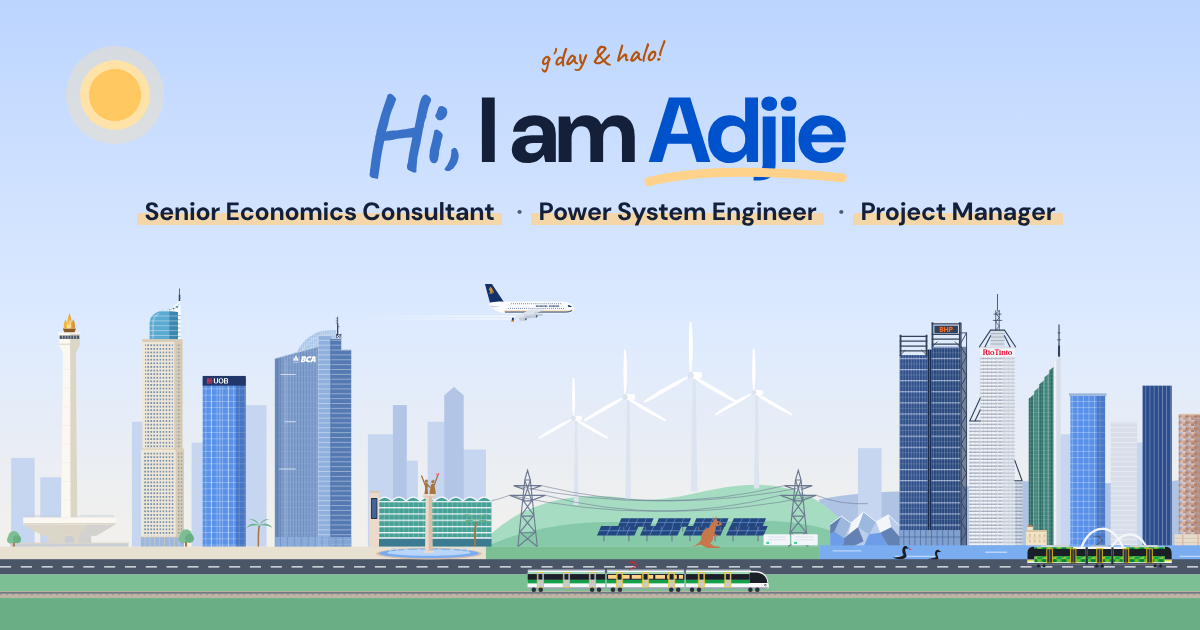
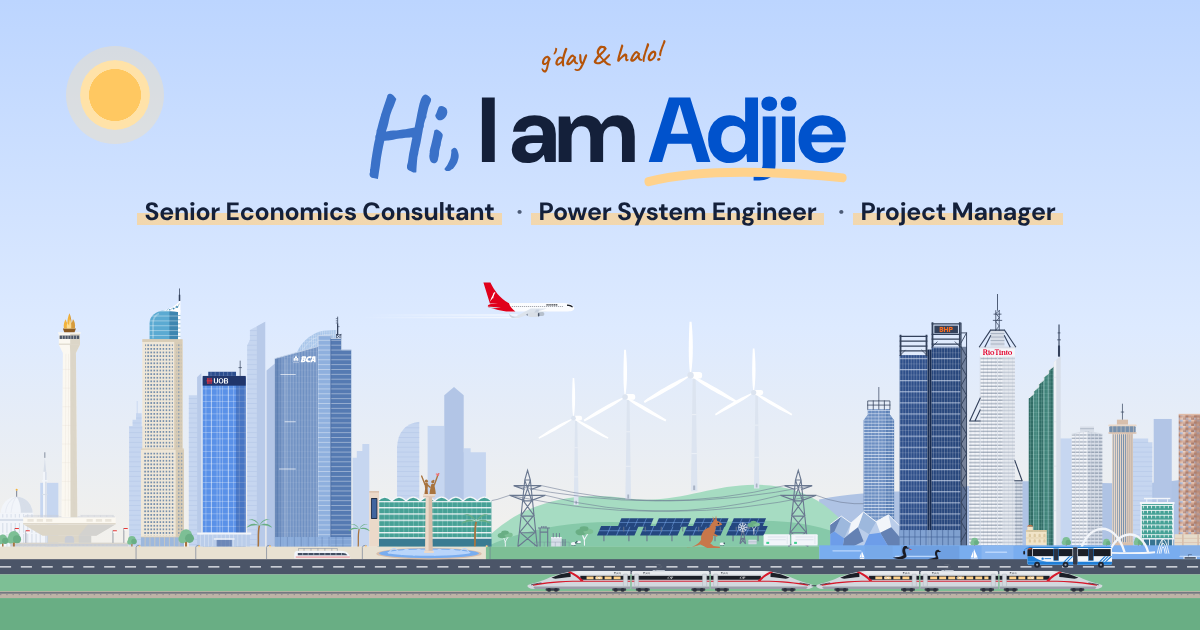
Draw the real skylines in more detail
Jakarta gains the Istiqlal Mosque beside Monas, Thamrin Nine and its
neighbours in the haze, flags and reliefs on Monas, UOB Plaza's podium and
roof plant, street lamps and the Bundaran HI bus halt. Perth swaps its
three generic boxes for QV1, Allendale Square, St Martins Tower and
Council House, and adds Matagarup Bridge, Spanda, a ferry, yachts,
foreshore trees and tower reflections on the Swan. The farm between them
gets a substation, a windmill, gums and sheep. Social image regenerated.

Claude-Session: https://claude.ai/code/session_01QpNtMhFshDgpuuidwhsMRa

diff --git a/index.html b/index.html
@@ -888,7 +888,7 @@
     </main>
 
     <div class="scene-wrap" id="sceneWrap">
-      <svg class="scene" viewBox="0 110 1920 490" preserveAspectRatio="xMidYMax slice" role="img" aria-label="Flat illustration of Jakarta, with Monas, Wisma 46, Menara BCA and the Selamat Datang monument, then wind and solar farms, then Perth, with the BHP Tower at Brookfield Place, Central Park (the Rio Tinto tower), the Palace Tower, the Bell Tower, Elizabeth Quay Bridge and Optus Stadium. A Singapore Airlines A380 flies overhead while a Transperth C-series train and a Transperth bus pass below, and a kangaroo jumps at the power line, gets a jolt and hops on, a little singed.">
+      <svg class="scene" viewBox="0 110 1920 490" preserveAspectRatio="xMidYMax slice" role="img" aria-label="Flat illustration of Jakarta, with the Istiqlal Mosque, Monas, Wisma 46, UOB Plaza, Menara BCA, Hotel Indonesia and the Selamat Datang monument, then wind and solar farms, then Perth, with QV1, the BHP Tower at Brookfield Place, Central Park (the Rio Tinto tower), the Palace Tower, Allendale Square, St Martins Tower, Council House, the Ritz-Carlton, the Bell Tower, Elizabeth Quay Bridge, Matagarup Bridge and Optus Stadium. A Singapore Airlines A380 flies overhead while a Transperth C-series train and a Transperth bus pass below, and a kangaroo jumps at the power line, gets a jolt and hops on, a little singed.">
         <defs>
           <pattern id="mullV" width="6" height="8" patternUnits="userSpaceOnUse"><rect x="0" y="0" width="1" height="8" class="f-mull"/></pattern>
           <pattern id="mullG" width="8" height="9" patternUnits="userSpaceOnUse"><rect x="0" y="0" width="1" height="9" class="f-mull"/><rect x="0" y="0" width="8" height="1" class="f-mull"/></pattern>
@@ -898,6 +898,7 @@
           <linearGradient id="contrail" x1="0" x2="1"><stop offset="0" stop-color="#fff" stop-opacity="0"/><stop offset="1" stop-color="#fff" stop-opacity=".9"/></linearGradient>
           <g id="turbine">
             <path class="f-blade2" d="M-4.5 0 L4.5 0 L2 -160 L-2 -160 Z"/>
+            <path d="M-3.7 -52 H3.7 M-2.9 -106 H2.9" stroke="var(--blade)" stroke-width=".7"/><rect x="-1.4" y="-8" width="2.8" height="6.4" rx=".5" fill="var(--pylon)" opacity=".45"/>
             <rect class="f-blade" x="-5" y="-165" width="16" height="9" rx="4"/>
             <g transform="translate(-5 -160.5)">
               <g class="spin">
@@ -915,6 +916,14 @@
           <g id="panel"><path class="s-pylon" d="M10 0 V-10 M46 0 V-14"/><path class="f-panel" d="M0 -8 L54 -8 L60 -22 L6 -22 Z"/><path d="M14 -8 L20 -22 M28 -8 L34 -22 M42 -8 L48 -22 M3 -15 L57 -15" stroke="var(--panel-2)" stroke-width=".8" fill="none"/></g>
           <g id="tree"><rect x="-1.5" y="-10" width="3" height="10" class="f-bronze"/><circle cy="-16" r="9" class="f-grass"/><circle cx="-5" cy="-11" r="6" class="f-grass"/><circle cx="5" cy="-12" r="6.5" class="f-grass2"/></g>
           <g id="palm"><path d="M0 0 C 1 -12 -1 -24 2 -36" stroke="var(--bronze)" stroke-width="2.6" fill="none"/><path class="f-grass2" d="M2 -36 c -10 -6 -18 -2 -22 4 c 8 -5 15 -5 22 -4z M2 -36 c 10 -6 18 -2 22 4 c -8 -5 -15 -5 -22 -4z M2 -36 c -4 -10 -12 -12 -18 -10 c 8 0 13 4 18 10z M2 -36 c 4 -10 12 -12 18 -10 c -8 0 -13 4 -18 10z"/></g>
+          <pattern id="ribV" width="3" height="6" patternUnits="userSpaceOnUse"><rect x="1" width="1.2" height="6" fill="var(--w46-win)"/></pattern>
+          <pattern id="chT" width="6" height="7" patternUnits="userSpaceOnUse"><path d="M0 .7 H6 M3 .7 V4.6" stroke="var(--halo)" stroke-width="1.1" fill="none"/></pattern>
+          <pattern id="qvG" width="5" height="4.5" patternUnits="userSpaceOnUse"><rect width="5" height="1.1" fill="var(--bca-band)"/><rect width=".6" height="4.5" class="f-mull"/></pattern>
+          <pattern id="hazeG" width="5" height="7" patternUnits="userSpaceOnUse"><rect width="5" height=".8" fill="var(--far-2)"/></pattern>
+          <g id="lamp"><path d="M0 0 V-17 q0 -3 4.4 -3" fill="none" stroke="var(--pylon)" stroke-width=".9"/><rect x="3.4" y="-20.6" width="3" height="1.2" rx=".6" fill="var(--pylon)"/><circle class="lit" cx="4.9" cy="-18.6" r="1.5" fill="var(--lit)"/></g>
+          <g id="gum"><path d="M0 0 C .6 -7 -.6 -11 -3.4 -16 M0 -8 C 1.4 -12 3.4 -14 5 -17" fill="none" stroke="var(--white-b)" stroke-width="1.5" stroke-linecap="round"/><ellipse cx="-5" cy="-19" rx="8" ry="4.6" class="f-grass2"/><ellipse cx="5.6" cy="-20" rx="7" ry="4" class="f-grass"/><ellipse cx="-.6" cy="-24" rx="6.4" ry="3.6" class="f-grass2"/></g>
+          <g id="sheep"><ellipse cx="0" cy="-3.4" rx="3.6" ry="2.3" class="f-white"/><circle cx="3.6" cy="-4.4" r="1.2" fill="var(--steel)"/><path d="M-2 -1.4 V0 M-.4 -1.4 V0 M1.4 -1.4 V0 M2.6 -1.4 V0" stroke="var(--steel)" stroke-width=".6"/></g>
+          <g id="yacht"><path d="M0 0 h11 l-1.8 2.4 h-7.4 z" class="f-white"/><path d="M5 -.6 V-14 L10.4 -1.4 Z M4.2 -1.4 V-11.6 L.4 -1.4 Z" fill="var(--halo)"/></g>
           <pattern id="bcaV" width="3.2" height="4.6" patternUnits="userSpaceOnUse"><rect width=".7" height="4.6" class="f-mull"/><rect width="3.2" height=".45" class="f-mull"/></pattern>
           <pattern id="bhpG" width="4" height="16" patternUnits="userSpaceOnUse"><rect width=".8" height="16" class="f-mull"/><rect y="0" width="4" height="1.7" fill="var(--bhp-band)"/><rect y="8" width="4" height=".5" class="f-mull"/></pattern>
           <pattern id="palG" width="4" height="5.5" patternUnits="userSpaceOnUse"><rect width=".8" height="5.5" fill="var(--pal-line)"/><rect width="4" height=".5" fill="var(--pal-line)"/></pattern>
@@ -948,14 +957,26 @@
 
         <!-- Far: haze of both cities and the Darling Range -->
         <path class="f-range" d="M1180 480 L1180 412 C 1260 396 1330 404 1400 392 C 1500 376 1600 398 1700 384 C 1790 372 1860 388 1920 380 L1920 480 Z"/>
+        <!-- Jakarta's haze, west to east: Sahid Sudirman Center, Gama Tower, then Thamrin Nine (the Autograph Tower,
+             the tallest in the country, and the Luminary beside it), Plaza Indonesia, Menara Astra and Wisma Nusantara.
+             Perth's: the east end of the Terrace. -->
         <g class="f-far">
-          <rect x="16" y="352" width="34" height="128"/><rect x="58" y="380" width="30" height="100"/><rect x="190" y="300" width="30" height="180"/><rect x="276" y="330" width="26" height="150"/>
-          <rect x="350" y="276" width="34" height="204"/><rect x="530" y="318" width="36" height="162"/><rect x="574" y="356" width="28" height="124"/><rect x="616" y="300" width="34" height="180"/><rect x="660" y="340" width="40" height="140"/>
-          <rect x="1236" y="338" width="34" height="142"/><rect x="1424" y="302" width="30" height="178"/><rect x="1520" y="318" width="36" height="162"/><rect x="1630" y="330" width="32" height="150"/><rect x="1750" y="350" width="40" height="130"/><rect x="1836" y="362" width="30" height="118"/>
+          <rect x="58" y="388" width="26" height="92"/>
+          <path d="M186 480 V306 h5 v-9 h5 v-9 h8 v18 h6 V480 Z M197 288 v-18 h1.2 v18 Z"/>
+          <path d="M272 480 V262 H284 V236 L290 230 V480 Z"/>
+          <path d="M356 480 V190 L360 182 V168 L382 156 V480 Z"/>
+          <path d="M508 480 V352 h6 v-10 h8 v-10 h10 V480 Z"/>
+          <path d="M572 480 V336 Q 574 304 604 300 V480 Z"/>
+          <rect x="616" y="306" width="24" height="174"/>
+          <path d="M660 480 V344 h8 v-6 h10 v6 h22 V480 Z"/>
+          <rect x="1424" y="302" width="30" height="178"/><rect x="1526" y="324" width="18" height="156"/>
+          <path d="M1626 480 V330 h6 v-6 h22 v6 h6 V480 Z"/><rect x="1750" y="350" width="40" height="130"/><rect x="1836" y="362" width="30" height="118"/>
         </g>
         <g class="f-far2">
-          <rect x="566" y="276" width="20" height="204"/><path d="M640 480 V262 l14 -12 l14 12 V480 Z"/><rect x="1556" y="290" width="24" height="190"/><rect x="1662" y="300" width="26" height="180"/>
+          <path d="M384 480 V226 L396 216 V480 Z"/><path d="M640 480 V262 l14 -12 l14 12 V480 Z"/><rect x="1662" y="296" width="26" height="184"/>
+          <path d="M370 480 V162.4 L382 156 V480 Z M284 480 V236 L290 230 V480 Z" opacity=".7"/>
         </g>
+        <path fill="url(#hazeG)" d="M186 480 V306 h5 v-9 h5 v-9 h8 v18 h6 V480 Z M272 480 V262 H284 V480 Z M356 480 V190 L360 182 V168 L370 162.4 V480 Z M572 480 V336 Q 574 304 604 300 V480 Z M1626 480 V330 h6 v-6 h22 v6 h6 V480 Z"/>
 
         <!-- Far away, so it passes behind the towers: the Singapore Airlines A380-800, Jakarta to Perth.
              Click (or tap) it for a Qantas A350-1000, then a B-2 Spirit, seen from below and hard to spot. -->
@@ -1038,9 +1059,42 @@
           <rect x="1100" y="462" width="38" height="16" rx="1.5" class="f-white"/><rect x="1140" y="462" width="38" height="16" rx="1.5" class="f-white"/>
           <path d="M1106 466 h26 M1106 470 h26 M1146 466 h26 M1146 470 h26" stroke="var(--grey-b)" stroke-width="1.2"/>
           <rect x="1104" y="473" width="4" height="3" fill="#3ECF8E"/><rect x="1144" y="473" width="4" height="3" fill="#3ECF8E"/>
+          <path d="M1134 464 v12 M1174 464 v12 M1100 478.6 h78" stroke="var(--grey-b)" stroke-width="1"/>
+        </g>
+        <!-- The substation under the first tower: a transformer with its bushings and cooling fins, a gantry, a fence -->
+        <g>
+          <path class="s-pylon" stroke-width="1.1" d="M778 480 V453 M789 480 V453 M775 453 H792 M778 459 H789 M780.5 453 v-3 M783.5 453 v-3 M786.5 453 v-3"/>
+          <rect x="794" y="466" width="15" height="14" class="f-grey"/><rect x="794" y="466" width="15" height="2" class="f-white"/>
+          <path d="M797 466 v-5 M801.5 466 v-5 M806 466 v-5" stroke="var(--pylon)" stroke-width="1.3" stroke-linecap="round"/>
+          <path d="M810.4 469 v10 M812.4 469 v10 M814.4 469 v10" stroke="var(--pylon)" stroke-width="1"/>
+          <path d="M770 480 V473.4 H820 V480 M776 473.4 V480 M784 473.4 V480 M792 473.4 V480 M800 473.4 V480 M808 473.4 V480 M814 473.4 V480" stroke="var(--pylon)" stroke-width=".5" fill="none" opacity=".8"/>
+        </g>
+        <!-- Station country: a windmill on its lattice tower, a tank, a few gums and sheep -->
+        <g>
+          <path class="s-pylon" stroke-width=".8" d="M1066 476 L1070 452 L1074 476 M1067.4 468 H1072.6 M1068.6 460 H1071.4 M1066 476 L1072.6 468 M1074 476 L1067.4 468"/>
+          <path d="M1070 452 h8 l3 -2.4 v4.8 z" fill="var(--pylon)"/>
+          <g transform="translate(1070 452)"><g class="spin" style="--spd:3.4s"><path d="M0 -6.4 V6.4 M-6.4 0 H6.4 M-4.5 -4.5 L4.5 4.5 M-4.5 4.5 L4.5 -4.5" stroke="var(--blade-2)" stroke-width="1.5"/><circle r="6.4" fill="none" stroke="var(--blade-2)" stroke-width=".7"/><circle r="1.3" fill="var(--pylon)"/></g></g>
+          <rect x="1078" y="470" width="12" height="6.6" rx="1" class="f-grey"/><path d="M1078 472.4 h12 M1078 474.4 h12" stroke="var(--pylon)" stroke-width=".5" opacity=".6"/>
+          <use href="#gum" transform="translate(842 478)"/><use href="#gum" transform="translate(1086 462) scale(.7)"/><use href="#gum" transform="translate(728 480) scale(.85)"/>
+          <use href="#sheep" transform="translate(826 479)"/><use href="#sheep" transform="translate(834 476) scale(-.8 .8)"/><use href="#sheep" transform="translate(1040 479) scale(.9)"/>
         </g>
 
         <!-- ═══ Jakarta ═══ -->
+        <!-- Istiqlal, north-east of Monas: the great dome on its drum, the prayer hall's long colonnade, the one minaret -->
+        <g>
+          <rect x="-12" y="440" width="76" height="40" class="f-white"/>
+          <rect x="-12" y="440" width="76" height="3" class="f-grey"/>
+          <path d="M-8 446 V480 M-2 446 V480 M4 446 V480 M10 446 V480 M16 446 V480 M22 446 V480 M28 446 V480 M34 446 V480 M40 446 V480 M46 446 V480 M52 446 V480 M58 446 V480" stroke="var(--grey-b)" stroke-width="1.6"/>
+          <rect x="-12" y="460" width="76" height="1.6" class="f-white"/>
+          <rect x="0" y="431" width="48" height="9" class="f-white"/><path d="M4 433 v5 M10 433 v5 M16 433 v5 M22 433 v5 M28 433 v5 M34 433 v5 M40 433 v5 M46 433 v5" stroke="var(--grey-b)" stroke-width="1.4"/>
+          <path class="f-white" d="M1 431 A 23 23 0 0 1 47 431 Z"/>
+          <path class="f-grey" d="M24 408 A 23 23 0 0 1 47 431 H30 C 30 422 28 414 24 408 Z"/>
+          <path d="M8 431 C 9 420 14 412 24 408 M16 431 C 17 420 20 412 24 408 M38 431 C 37.4 420 32 412 24 408" fill="none" stroke="var(--grey-b)" stroke-width=".6"/>
+          <path d="M24 408 V399" stroke="var(--steel)" stroke-width=".9"/><circle cx="24" cy="398" r="1.5" fill="var(--flame)"/>
+          <path class="f-white" d="M62 480 V372 h5.2 V480 Z"/><path class="f-grey" d="M65 480 V372 h2.2 V480 Z"/>
+          <rect x="60.6" y="384" width="8" height="2.2" class="f-white"/><rect x="60.6" y="404" width="8" height="1.6" class="f-grey"/>
+          <path class="f-grey" d="M62.6 372 L64.6 352 L66.6 372 Z"/><path d="M64.6 352 V344" stroke="var(--steel)" stroke-width=".8"/>
+        </g>
         <!-- Monas: the cawan (the lesung, a wide shallow cup) on its base, the slim marble shaft (the alu),
              the flared collar under the observation deck, the bronze holder and the gold-leaf flame -->
         <g transform="translate(100 480) scale(1.12) translate(-100 -480)">
@@ -1060,6 +1114,11 @@
           <path class="f-mon" d="M89.8 442.2 L110.2 442.2 L108.4 231 L91.6 231 Z"/>
           <path class="f-mon2" d="M101.4 442.2 L110.2 442.2 L108.4 231 L101 231 Z"/>
           <path d="M90 420 H110 M90.2 396 H109.8 M90.4 372 H109.6 M90.6 348 H109.4 M90.8 324 H109.2 M91 300 H109 M91.2 276 H108.8 M91.4 252 H108.6" stroke="var(--mon-2)" stroke-width=".5" opacity=".55"/>
+          <path d="M94.6 441 L95.4 232 M98.6 441 L98.9 232 M105.6 441 L105 232" stroke="var(--mon-2)" stroke-width=".45" opacity=".6" fill="none"/>
+          <path d="M46 444.4 h8 v3.6 h-8z M58 444.4 h8 v3.6 h-8z M70 444.4 h8 v3.6 h-8z M122 444.4 h8 v3.6 h-8z M134 444.4 h8 v3.6 h-8z M146 444.4 h8 v3.6 h-8z" fill="var(--mon-2)" opacity=".55"/>
+          <path d="M30 475 V456 M44 475 V459 M156 475 V459 M170 475 V456" stroke="var(--steel)" stroke-width=".6"/>
+          <path d="M30 456 h5 v1.5 h-5z M44 459 h5 v1.5 h-5z M156 459 h5 v1.5 h-5z M170 456 h5 v1.5 h-5z" fill="#E63939"/>
+          <path d="M30 457.5 h5 v1.5 h-5z M44 460.5 h5 v1.5 h-5z M156 460.5 h5 v1.5 h-5z M170 457.5 h5 v1.5 h-5z" fill="#fff"/>
           <path class="f-mon" d="M91.6 231 L86.4 220.2 H113.6 L108.4 231 Z"/>
           <path class="f-mon2" d="M101 231 L100.6 220.2 H113.6 L108.4 231 Z"/>
           <rect x="86.4" y="205.6" width="27.2" height="14.6" class="f-mon"/>
@@ -1112,6 +1171,10 @@
           <rect x="292" y="234" width="62" height="14" fill="#21366B"/>
           <use href="#lgUob" x="297" y="236.6" width="32" height="9" fill="#fff"/>
           <rect x="292" y="252" width="62" height="226" fill="url(#lights)" class="lit"/>
+          <rect x="300" y="228" width="40" height="6" fill="var(--g-dark)"/><path d="M304 228 v6 M310 228 v6 M316 228 v6 M322 228 v6 M328 228 v6 M334 228 v6" stroke="var(--mullion)" stroke-width=".8"/>
+          <path d="M346 234 V212 M343.6 222 h4.8" stroke="var(--steel)" stroke-width="1"/><circle class="blink" cx="346" cy="211" r="1.4" fill="#FF5A5A"/>
+          <rect x="286" y="462" width="74" height="18" class="f-pale2"/><rect x="286" y="462" width="74" height="18" fill="url(#mullV)"/>
+          <rect x="284" y="459.6" width="78" height="3" class="f-white"/><rect x="312" y="470" width="22" height="10" fill="var(--g-dark)" opacity=".55"/><rect x="308" y="468" width="30" height="1.8" class="f-white"/>
         </g>
         <!-- Menara BCA: a convex, finned glass face carrying the BCA sign, a taller pale spine, a darker east face
              stepping down at its corner; above, the curved glass crown rising to a lattice frame and the mast -->
@@ -1157,9 +1220,20 @@
           <rect x="535.6" y="411.4" width="6.8" height="27.2" fill="#5A91E8" opacity=".55"/>
           <rect x="548" y="417" width="156" height="48" fill="url(#lights2)" class="lit"/>
         </g>
-        <use href="#palm" transform="translate(684 480)"/><use href="#palm" transform="translate(372 480) scale(.85)"/><use href="#tree" transform="translate(268 480)"/><use href="#tree" transform="translate(20 480) scale(.9)"/>
+        <use href="#palm" transform="translate(684 480)"/><use href="#palm" transform="translate(372 480) scale(.85)"/><use href="#tree" transform="translate(268 480)"/><use href="#tree" transform="translate(20 480) scale(.9)"/><use href="#tree" transform="translate(4 480) scale(.7)"/><use href="#tree" transform="translate(190 480) scale(.62)"/><use href="#palm" transform="translate(516 480) scale(.7)"/>
 
         <!-- ═══ Perth ═══ -->
+        <!-- QV1, Harry Seidler's tower at the west end of the Terrace: blue-grey glass under rows of sunshades,
+             the corners cut back near the top, an open steel trellis for a crown -->
+        <g>
+          <path class="f-bca" d="M1244 480 V298 L1250 290 V282 H1282 V290 L1288 298 V480 Z"/>
+          <path class="f-bca2" opacity=".7" d="M1276 480 V282 H1282 V290 L1288 298 V480 Z"/>
+          <path fill="url(#qvG)" d="M1244 480 V298 L1250 290 V282 H1282 V290 L1288 298 V480 Z"/>
+          <path d="M1266 282 V480" stroke="var(--bca-band)" stroke-width=".8" opacity=".7"/>
+          <rect x="1246" y="300" width="40" height="130" fill="url(#lights3)" class="lit"/>
+          <path class="s-steel" stroke-width="1.1" d="M1250 282 V270 H1282 V282 M1258 282 V270 M1266 282 V270 M1274 282 V270 M1250 276 H1282"/>
+          <path d="M1266 270 V250" stroke="var(--steel)" stroke-width="1"/><circle class="blink" cx="1266" cy="249" r="1.4" fill="#FF5A5A"/>
+        </g>
         <!-- RAC Arena: an Escher-ish puzzle of angled panels in greys and blues -->
         <g>
           <path class="f-pale2" d="M1196 480 V448 L1212 436 L1226 446 L1244 430 L1262 444 L1280 434 L1296 450 V480 Z"/>
@@ -1239,17 +1313,43 @@
           <path d="M1482 466 v-3 a1.6 1.6 0 0 1 3.2 0 v3 z M1489 466 v-3 a1.6 1.6 0 0 1 3.2 0 v3 z M1496 466 v-3 a1.6 1.6 0 0 1 3.2 0 v3 z M1503 466 v-3 a1.6 1.6 0 0 1 3.2 0 v3 z M1482 474 v-3 a1.6 1.6 0 0 1 3.2 0 v3 z M1489 474 v-3 a1.6 1.6 0 0 1 3.2 0 v3 z M1496 474 v-3 a1.6 1.6 0 0 1 3.2 0 v3 z M1503 474 v-3 a1.6 1.6 0 0 1 3.2 0 v3 z" fill="var(--heritage-2)"/>
           <path d="M1478 467.4 h30" stroke="var(--heritage-2)" stroke-width="1"/>
         </g>
+        <!-- Allendale Square: an aluminium tower turned 45 degrees to the Terrace, so a corner faces the river and
+             each face steps back in a sawtooth of window bays -->
         <g>
-          <rect x="1542" y="262" width="50" height="218" class="f-blue"/><rect x="1542" y="262" width="50" height="218" fill="url(#mullG)"/>
-          <rect x="1580" y="262" width="12" height="218" fill="var(--g-dark)" opacity=".35"/>
-          <rect x="1540" y="259" width="54" height="4" class="f-pale"/>
-          <rect x="1542" y="270" width="50" height="208" fill="url(#lights2)" class="lit"/>
+          <path class="f-cp" d="M1544 480 V318 L1566 313 V480 Z"/><path class="f-cp2" d="M1566 480 V313 L1588 318 V480 Z"/>
+          <path fill="url(#cpBand)" d="M1544 480 V318 L1566 313 L1588 318 V480 Z"/>
+          <path d="M1549.5 317 V480 M1555 315.6 V480 M1560.5 314.4 V480 M1571.5 314.4 V480 M1577 315.6 V480 M1582.5 317 V480" stroke="var(--cp-2)" stroke-width="1"/>
+          <path d="M1566 313 V480" stroke="var(--cp)" stroke-width="1.4"/>
+          <path d="M1544 318 L1566 313 L1588 318" fill="none" stroke="var(--cp-2)" stroke-width="1.6"/>
+          <path class="f-cp2" d="M1556 315 V307 H1576 V315 L1566 313 Z"/><path d="M1556 310 h20" stroke="var(--cp-pin)" stroke-width=".9"/>
+          <rect x="1546" y="322" width="40" height="150" fill="url(#lights3)" class="lit"/>
         </g>
+        <!-- St Martins Tower: ribbed precast concrete, and the round revolving restaurant sitting on top like a lid -->
         <g>
-          <rect x="1600" y="300" width="38" height="180" class="f-grey"/><rect x="1600" y="300" width="38" height="180" fill="url(#mullH)"/>
-          <rect x="1646" y="248" width="42" height="232" class="f-dark"/><rect x="1646" y="248" width="42" height="232" fill="url(#mullV)"/>
-          <rect x="1646" y="258" width="42" height="220" fill="url(#lights)" class="lit"/>
+          <rect x="1602" y="316" width="30" height="164" class="f-cream"/><rect x="1602" y="318" width="30" height="156" fill="url(#ribV)"/>
+          <rect x="1623" y="316" width="9" height="164" class="f-cream2" opacity=".6"/>
+          <rect x="1602" y="474" width="30" height="6" class="f-cream2"/>
+          <rect x="1598" y="306" width="38" height="10" rx="2" fill="var(--w46-win)"/>
+          <path d="M1603 306 v10 M1609 306 v10 M1615 306 v10 M1621 306 v10 M1627 306 v10 M1633 306 v10" stroke="var(--cream)" stroke-width=".7"/>
+          <rect x="1596.6" y="304" width="40.8" height="2.6" rx="1" class="f-cream"/><rect x="1596.6" y="315" width="40.8" height="2.2" rx="1" class="f-cream2"/>
+          <rect x="1609" y="297" width="16" height="7" class="f-cream2"/>
+          <path d="M1617 297 V274 M1614.6 286 h4.8" stroke="var(--steel)" stroke-width="1"/><circle class="blink" cx="1617" cy="273" r="1.4" fill="#FF5A5A"/>
+          <rect x="1598" y="306" width="38" height="10" rx="2" fill="var(--lit)" class="lit" opacity=".8"/>
+          <rect x="1603" y="322" width="28" height="150" fill="url(#lights2)" class="lit"/>
         </g>
+        <!-- Council House: eleven floors of glass behind a white grid of T-shaped sunshades, a floating roof, pilotis at the foot -->
+        <g>
+          <rect x="1644" y="418" width="46" height="62" class="f-teal"/>
+          <rect x="1644" y="419" width="46" height="50" fill="url(#chT)"/>
+          <rect x="1646" y="421" width="42" height="46" fill="url(#lights2)" class="lit"/>
+          <rect x="1644" y="469" width="46" height="11" fill="var(--g-dark)" opacity=".55"/>
+          <path d="M1647 469 V480 M1656 469 V480 M1665 469 V480 M1674 469 V480 M1683 469 V480 M1689 469 V480" stroke="var(--halo)" stroke-width="1.3"/>
+          <path d="M1644 418 V469 M1690 418 V469" stroke="var(--halo)" stroke-width="1.6"/>
+          <rect x="1642" y="415.6" width="50" height="3" class="f-white"/><rect x="1642" y="467.6" width="50" height="2" class="f-white"/>
+          <path d="M1652 415.6 v-4 M1667 415.6 v-4 M1682 415.6 v-4" stroke="var(--halo)" stroke-width="1"/><rect x="1648" y="409.6" width="38" height="2" class="f-white"/>
+        </g>
+        <!-- The foreshore: the trees of the Esplanade and the Supreme Court Gardens -->
+        <use href="#tree" transform="translate(1404 481) scale(.55)"/><use href="#tree" transform="translate(1536 481) scale(.6)"/><use href="#tree" transform="translate(1594 481) scale(.5)"/><use href="#tree" transform="translate(1640 481) scale(.62)"/><use href="#palm" transform="translate(1764 481) scale(.6)"/>
         <!-- The Ritz-Carlton at Elizabeth Quay: two joined glass cylinders in a mosaic of sunset-tinted panes, on a stone podium -->
         <g>
           <rect x="1727" y="330" width="26" height="150" fill="url(#ritzM)"/>
@@ -1267,6 +1367,14 @@
         </g>
         <!-- The Swan River in front of the city -->
         <rect x="1180" y="478" width="740" height="26" class="f-water"/>
+        <g opacity=".13"><rect x="1298" y="479" width="84" height="23" class="f-bhp"/><rect x="1414" y="479" width="46" height="23" class="f-cp"/><rect x="1484" y="479" width="42" height="21" class="f-pal"/><rect x="1546" y="479" width="40" height="15" class="f-cp"/><rect x="1700" y="479" width="50" height="17" class="f-cream2"/><rect x="1246" y="479" width="40" height="17" class="f-bca"/></g>
+        <!-- Matagarup Bridge to the stadium: a white arch and a black one crossing over the deck, like a pair of swans -->
+        <g fill="none">
+          <path d="M1806 472 H1850" stroke="var(--grey-b)" stroke-width="1.4"/>
+          <path d="M1817 472 Q 1829 432 1841 472 M1806 472 Q 1811.5 459 1817 472" stroke="var(--halo)" stroke-width="1.7"/>
+          <path d="M1819.4 472 Q 1830 441 1839 472" stroke="var(--steel)" stroke-width="1.2"/>
+          <path d="M1822 472 V459 M1826 472 V453.4 M1830 472 V452.4 M1834 472 V455.6" stroke="var(--halo)" stroke-width=".4" opacity=".8"/>
+        </g>
         <path d="M1200 486 h40 M1290 494 h56 M1420 488 h30 M1700 494 h60 M1820 486 h44" stroke="var(--water-hi)" stroke-width="2" stroke-linecap="round"/>
         <!-- The Bell Tower: a glass spire on a steel axle, its lower third wrapped in two copper sails -->
         <g>
@@ -1283,6 +1391,13 @@
         <g>
           <path class="s-white" stroke-width="3.4" d="M1556 488 C 1566 446 1606 440 1620 488 M1598 488 C 1610 456 1644 452 1654 488"/>
           <path class="s-white" stroke-width="2.6" d="M1546 490 C 1580 486 1620 492 1664 488"/>
+        </g>
+        <!-- Elizabeth Quay: Spanda's nested white arcs on the point, a Transperth ferry coming in, yachts out on the river -->
+        <g>
+          <path d="M1667 490 Q 1675.5 449 1684 490 M1670 490 Q 1675.5 460 1681 490 M1672.4 490 Q 1675.5 470 1678.6 490" fill="none" stroke="var(--halo)" stroke-width="1.2"/>
+          <path d="M1702 498.4 h27 l-2.6 3.4 h-22.4 z" class="f-white"/><rect x="1705" y="494" width="19" height="4.6" rx="1" class="f-white"/>
+          <rect x="1706.4" y="495.2" width="16.2" height="2" fill="var(--hi-screen)"/><path d="M1702.6 499.6 h25.6" stroke="#0F9D58" stroke-width="1"/><path d="M1712 494 v-2.6 h5" stroke="var(--steel)" stroke-width=".7" fill="none"/>
+          <use href="#yacht" transform="translate(1398 497)"/><use href="#yacht" transform="translate(1872 498) scale(-.8 .8)"/><use href="#yacht" transform="translate(1238 496) scale(.7)"/>
         </g>
         <!-- Optus Stadium: bronze strata wrapped round the bowl, a band of glass, and the white fabric halo of a roof -->
         <g>
@@ -1309,6 +1424,16 @@
         <path d="M0 549 H1920" stroke="var(--rail)" stroke-width="1" stroke-dasharray="2 7" opacity=".7"/>
         <rect x="0" y="554" width="1920" height="46" class="f-grass2"/>
 
+        <!-- Along Thamrin: street lamps, and the TransJakarta halt at Bundaran HI, long and rounded like a ship, with its deck on top -->
+        <g>
+          <use href="#lamp" transform="translate(196 498)"/><use href="#lamp" transform="translate(282 498)"/><use href="#lamp" transform="translate(384 498)"/><use href="#lamp" transform="translate(522 498)"/><use href="#lamp" transform="translate(706 498) scale(-1 1)"/>
+          <path class="f-white" d="M424 497 V490.6 Q 424 486 430 486 H490 Q 500 486 503 491.6 L505 497 Z"/>
+          <path d="M429 489 H494 Q 498.6 489 500.4 492.4 H429 Z" fill="var(--hi-screen)" opacity=".85"/>
+          <path d="M436 489 v3.4 M444 489 v3.4 M452 489 v3.4 M460 489 v3.4 M468 489 v3.4 M476 489 v3.4 M484 489 v3.4 M492 489 v3.4" stroke="var(--white-b)" stroke-width=".7"/>
+          <path d="M430 486 V482.6 H486 V486 M438 482.6 V486 M448 482.6 V486 M458 482.6 V486 M468 482.6 V486 M478 482.6 V486" stroke="var(--pylon)" stroke-width=".6" fill="none"/>
+          <rect x="426" y="494.4" width="78" height="1" fill="#E63939" opacity=".85"/>
+          <rect x="429" y="489" width="71" height="3.4" fill="url(#lights2)" class="lit"/>
+        </g>
         <!-- Bundaran HI sits on the plaza, in front of Hotel Indonesia -->
         <!-- Bundaran HI: the round pool with its ring of arching jets, the tall pedestal, and the Selamat Datang pair,
              a man and a woman waving, the woman holding up flowers -->

diff --git a/_build/sitemap.py b/_build/sitemap.py
@@ -7,7 +7,7 @@ Bump a page's date in PAGES when its content changes.
 """
 SITE = 'https://www.adjiebrotots.com'
 PAGES = [
-    ('/', '2026-10-27', '1.0'),
+    ('/', '2026-11-12', '1.0'),
     ('/about/', '2026-11-06', '0.9'),
     ('/id/about/', '2026-11-06', '0.9'),
 ]
